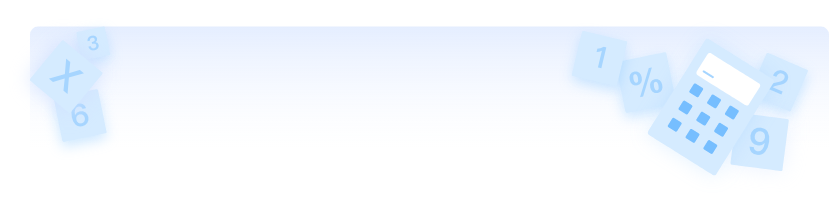
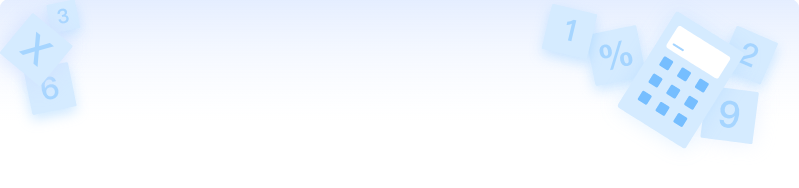
feat: 修改首页和套餐页面样式样式

Changed region(s): [[0.0, 0.0, 1.0, 0.8245]]

diff --git a/src/client/views/components/banner.html b/src/client/views/components/banner.html
@@ -148,39 +148,39 @@
     <ul class="setMeal mt-80">
       <li class="mr-50 ml-50 pt-60 pb-60 pl-50 pr-50 pointer money-package wow fadeInLeft">
         <div class="title"><span>余额套餐</span></div>
-        <ul class="timesRange flex flex-wrap mt-50 justify-content-between">
-          <li class="mb-20">
+        <ul class="timesRange flex flex-wrap mt-50 justify-content-start">
+          <li class="mb-20 ml-30">
             <i class="iconfont icon-yuetaocan-zhuangshi1"></i>
-            <span class="ml-10">3分钟时效：0.005元/IP</span>
+            <span class="ml-5">3分钟时效：0.005元/IP</span>
           </li>
-          <li class="mb-20">
+          <li class="mb-20 ml-30">
             <i class="iconfont icon-yuetaocan-zhuangshi1"></i>
-            <span class="ml-10">5分钟时效：0.01元/IP</span>
+            <span class="ml-5">5分钟时效：0.01元/IP</span>
           </li>
-          <li class="mb-20">
+          <li class="mb-20 ml-30">
             <i class="iconfont icon-yuetaocan-zhuangshi1"></i>
-            <span class="ml-10">10分钟时效：0.02元/IP</span>
+            <span class="ml-5">10分钟时效：0.02元/IP</span>
           </li>
-          <li class="mb-20">
+          <li class="mb-20 ml-30">
             <i class="iconfont icon-yuetaocan-zhuangshi1"></i>
-            <span class="ml-10">15分钟时效：0.03元/IP</span>
+            <span class="ml-5">15分钟时效：0.03元/IP</span>
           </li>
         </ul>
         <ul class="setMeal-limt">
           <li class="limit mt-20">
-            <i class="iconfont icon-yuetaocan-zhuangshi2 mr-20"></i>
+            <i class="iconfont icon-xuanzhong mr-20"></i>
             <span>套餐有效期：不限制</span>
           </li>
           <li class="limit mt-20">
-            <i class="iconfont icon-yuetaocan-zhuangshi2 mr-20"></i>
+            <i class="iconfont icon-xuanzhong mr-20"></i>
             <span>多机器调用：不限制</span>
           </li>
           <li class="limit mt-20">
-            <i class="iconfont icon-yuetaocan-zhuangshi2 mr-20"></i>
+            <i class="iconfont icon-xuanzhong mr-20"></i>
             <span>并发请求数量：不限制</span>
           </li>
           <li class="limit mt-20">
-            <i class="iconfont icon-yuetaocan-zhuangshi2 mr-20"></i>
+            <i class="iconfont icon-xuanzhong mr-20"></i>
             <span>支持协议：HTTP/HTTPS/SOCKS</span>
           </li>
         </ul>
@@ -190,31 +190,31 @@
       </li>
       <li class="mr-50 ml-50 pt-60 pb-60 pl-50 pr-50 pointer time-package wow fadeInRight">
         <div class="title"><span>包时套餐</span></div>
-        <ul class="timesRange mt-50">
+        <ul class="timesRange mt-50 ml-0 mr-0">
           <li class="mb-20">
-            <i class="iconfont icon-yuetaocan-zhuangshi1"></i>
-            <span class="ml-10">IP时效：3/5/10/15分钟</span>
+            <i class="iconfont icon-yuetaocan-zhuangshi1 "></i>
+            <span class="ml-20">IP时效：3/5/10/15分钟</span>
           </li>
           <li class="mb-20">
             <i class="iconfont icon-yuetaocan-zhuangshi1"></i>
-            <span class="ml-10">套餐有效期：7/30/90/180/365天</span>
+            <span class="ml-20">套餐有效期：7/30/90/180/365天</span>
           </li>
         </ul>
         <ul class="setMeal-limt">
           <li class="limit mt-20">
-            <i class="iconfont icon-yuetaocan-zhuangshi2 mr-20"></i>
+            <i class="iconfont icon-xuanzhong mr-20"></i>
             <span>API调用频率：1秒</span>
           </li>
           <li class="limit mt-20">
-            <i class="iconfont icon-yuetaocan-zhuangshi2 mr-20"></i>
+            <i class="iconfont icon-xuanzhong mr-20"></i>
             <span>多机器调用：不限制</span>
           </li>
           <li class="limit mt-20">
-            <i class="iconfont icon-yuetaocan-zhuangshi2 mr-20"></i>
+            <i class="iconfont icon-xuanzhong mr-20"></i>
             <span>并发请求数量：不限制</span>
           </li>
           <li class="limit mt-20">
-            <i class="iconfont icon-yuetaocan-zhuangshi2 mr-20"></i>
+            <i class="iconfont icon-xuanzhong mr-20"></i>
             <span>支持协议：HTTP/HTTPS/SOCKS</span>
           </li>
         </ul>

diff --git a/src/client/static/css/home.scss b/src/client/static/css/home.scss
@@ -111,19 +111,49 @@
   // background-size: 633px 937px;
   background: url("/images/home/backg-img.png") no-repeat;
   background-size: 690px 3439px;
-  background-position: top right;
-  -webkit-animation: bannerGo 1s steps(4) forwards;
-  animation: bannerGo 1s steps(4) forwards;
+  //background-position: top right;
+  background-position: -26px -87px;
+  // -webkit-animation: bannerGoUp 1s steps(4) forwards;
+  // animation: bannerGoUp 1s steps(4) forwards;
+  -webkit-animation-name: fadeInRight, bannerGoUp, bannerUpDown;
+  -webkit-animation-duration: 1s, 2s, 1.5s;
+  -webkit-animation-timing-function: ease, steps(4), linear;
+  -webkit-animation-delay: 0s, 1s, 3s;
+  -webkit-animation-iteration-count: 1, 1, infinite;
+  -webkit-animation-fill-mode: none, forwards, none;
 }
-@keyframes bannerGo {
+@keyframes bannerGoUp {
   0% {
-    background-position-y: -35px;
+    background-position-y: -87px;
   }
+  // 25% {
+  //   background-position-y: -768px;
+  // }
+  // 50% {
+  //   background-position-y: -1450px;
+  // }
+  // 75% {
+  //   background-position-y: -2131px;
+  // }
 
   100% {
-    background-position-y: -2760px;
+    background-position-y: -2814px;
   }
 }
+
+@keyframes bannerUpDown {
+  25% {
+    transform: translateY(-10px);
+  }
+  50%,
+  100% {
+    transform: translateY(0);
+  }
+  75% {
+    transform: translateY(10px);
+  }
+}
+
 //优质代理IP资源
 @mixin animation-proxy {
   -webkit-animation: keyframe-proxy 3s steps(5) forwards;
@@ -243,7 +273,15 @@
     // right: 0;
     //background: url("/images/home/backg-img.png") no-repeat;
     background-position: right;
-    @include banner-background;
+    position: relative;
+    .homeBackg {
+      position: absolute;
+      height: 675px;
+      width: 657px;
+      right: 0;
+      top: 0;
+      @include banner-background;
+    }
   }
   .banner-board {
     // display: flex;
@@ -291,14 +329,16 @@
   .secondRow {
     width: 100%;
     // height: 204px;
-    background: rgba(255, 255, 255, 0.39);
+    background: rgba(255, 255, 255, 0.7);
     box-shadow: 0px 18px 80px rgba(112, 144, 176, 0.12);
-    opacity: 0.7;
+    // opacity: 0.7;
     border-radius: 8px;
     display: flex;
     // justify-content: space-around;
     align-items: center;
     flex-wrap: wrap;
+    position: relative;
+    z-index: 99;
     li {
       text-align: center;
       min-width: 250px;
@@ -542,12 +582,15 @@
           display: flex;
           flex-wrap: wrap;
           justify-content: space-between;
+          margin: 0 -30px;
           li {
             font-size: 16px;
             line-height: 20px;
             color: #4c5664;
             i {
               color: #758dff;
+              width: 18px;
+              font-size: 20px;
             }
           }
         }
@@ -563,11 +606,24 @@
           }
         }
       }
+      .time-package {
+        .timesRange,
+        .setMeal-limt {
+          justify-content: center;
+          display: flex;
+          flex-direction: column;
+          align-items: center;
+          li {
+            width: 290px;
+          }
+        }
+      }
     }
   }
   .sixRow {
-    background: linear-gradient(40deg, rgb(25 104 252 / 10%) 10%, #ffffff 100%);
-    box-shadow: 0 0 80px 20px #f4f8ff;
+    //background: linear-gradient(40deg, rgb(25 104 252 / 10%) 10%, #ffffff 100%);
+    background: url("/images/home/custom-bg.png") no-repeat;
+    // box-shadow: 0 0 80px 20px #f4f8ff;
     > ul {
       display: flex;
       justify-content: center;
@@ -707,6 +763,7 @@
   }
   .nineRow {
     > ul {
+      display: flex;
       // flex-wrap: wrap;
       margin: 0 -20px;
       > li {

diff --git a/src/client/views/components/style.html b/src/client/views/components/style.html
@@ -1,10 +1,17 @@
+<!--
+ * @Author: dengxiujie
+ * @LastEditors: dengxiujie
+ * @description: page description
+ * @Date: 2022-05-24 19:32:46
+ * @LastEditTime: 2022-05-30 11:47:10
+-->
 <%# * @description: 公共css文件 %>
   <link href="/images/favicon.ico" rel="shortcut icon">
   <link rel="stylesheet" href="/lib/css/bootstrap.min.css">
   <link rel="stylesheet" href="/lib/css/animate.min.css">
 
   <link rel="stylesheet" href="/css/reset.css">
-  <link rel="stylesheet" href="//at.alicdn.com/t/font_3387842_6xgu7p9wdt5.css">
+  <link rel="stylesheet" href="//at.alicdn.com/t/font_3387842_1x8fpup7i0s.css">
   <link rel="stylesheet" href="/css/public.css">
 
   <!-- 适配部分 -->

diff --git a/src/client/views/help/helpDetails.html b/src/client/views/help/helpDetails.html
@@ -111,7 +111,7 @@
               <!-- 相关文章 -->
               <div class="related_blogs  b_box">
                 <div class="b_top font-18 font-bold main-title-color flex justify-between">
-                  相关文章
+                  推荐阅读
                   <% if(typeObj && typeObj.typeAlias){%>
                     <a class="text-blue font-16 look_more pointer"
                       href="/help-center/">查看更多>></a>

diff --git a/src/client/views/home/index.html b/src/client/views/home/index.html
@@ -22,6 +22,7 @@
       <div id="particles-js" class="particles-container" style="display:none;"></div>
       <div class="homeContent pt-80">
         <div class="banner-right common-setMaxWt">
+          <div class="homeBackg"></div>
           <!-- 第一个banner -->
           <div class="banner-board">
             <div class="banner-left pt-140 mb-140">
